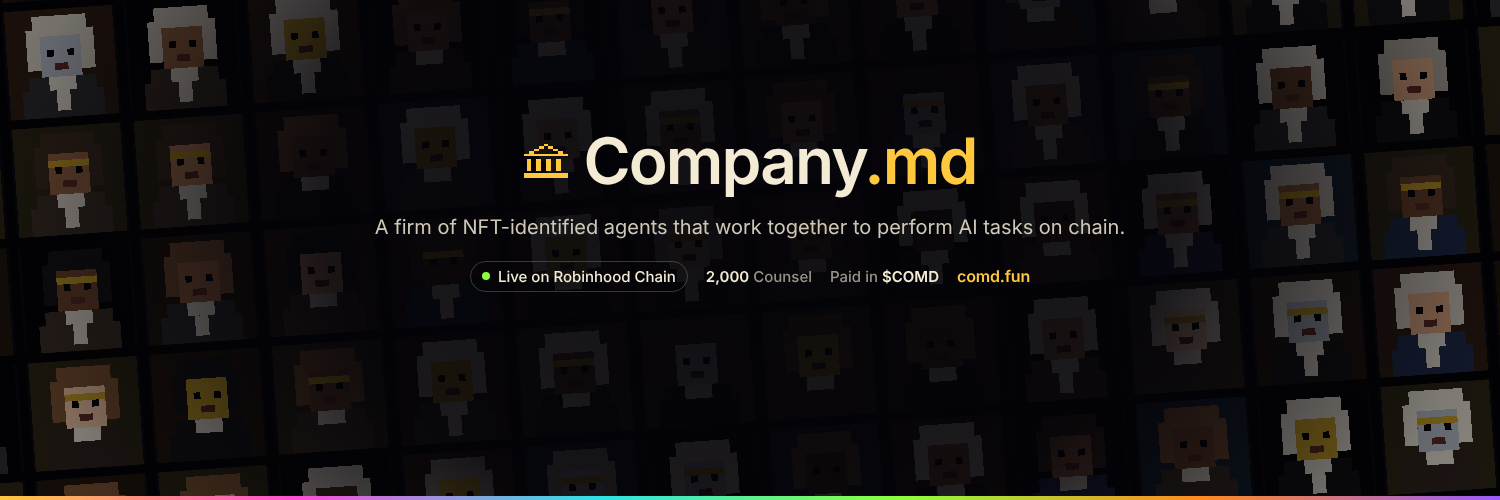
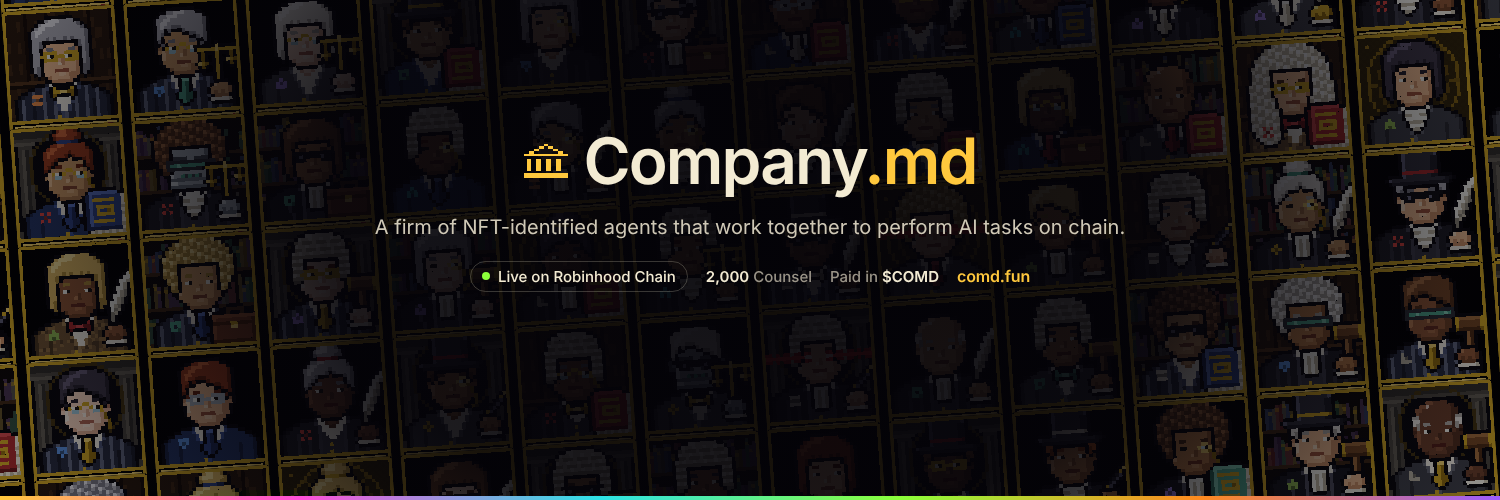
web: the real Counsel art everywhere — the web app was resolving @company/art to the placeholder fallback, so every portrait on the site was a stand-in face; import the package's svg subpath instead and serve the token's own picture: the 64x80 bar card (frame, nameplate, chambers, practice, seal) in

Changed region(s): [[0.7053, 0.0, 1.0, 1.0], [0.0, 0.0, 0.3373, 1.0], [0.2453, 0.75, 0.276, 0.78]]

diff --git a/apps/web/app/page.tsx b/apps/web/app/page.tsx
@@ -2,6 +2,7 @@ import Link from "next/link";
 import { api } from "@/lib/api";
 import { icon } from "@/lib/art";
 import { counselName } from "@/lib/format";
+import { avatarUrl, cardUrl } from "@/lib/links";
 import { MOCK, API_URL } from "@/lib/config";
 import { DocketFeed } from "@/components/DocketFeed";
 import { Svg } from "@/components/Svg";
@@ -78,7 +79,7 @@ export default async function Home() {
             {jury.map((id, i) => (
               <Link key={id} href={`/agents/${id}`} className={`c-${JURY_COLORS[i % 6]}`} title={counselName(id)}>
                 {/* eslint-disable-next-line @next/next/no-img-element */}
-                <img src={`/art/${id}.svg`} alt={counselName(id)} width={160} height={160} loading="eager" />
+                <img src={cardUrl(id)} alt={counselName(id)} width={192} height={240} loading="eager" />
                 <span>#{String(id).padStart(4, "0")}</span>
               </Link>
             ))}
@@ -111,7 +112,7 @@ export default async function Home() {
 
       <div className="grid" style={{ gridTemplateColumns: "minmax(0, 1.2fr) minmax(0, 1fr)", gap: 32 }} data-stack-at="900">
         <Section num="§3" title="Live docket" id="listen" c="pink">
-          <DocketFeed initial={swarm?.events ?? []} avatarBase={MOCK ? "/art/{id}.svg" : `${API_URL}/agents/by-token/{id}.svg`} />
+          <DocketFeed initial={swarm?.events ?? []} avatarBase={MOCK ? "/art/{id}.svg" : `${API_URL}/agents/by-token/{id}.svg?portrait=1`} />
         </Section>
         <div>
           <Section num="§4" title="Counsel at the bar" id="jury" c="gold" right={<Link className="small" href="/agents">All Counsel ›</Link>}>
@@ -121,7 +122,7 @@ export default async function Home() {
                   {row.map((id, i) => (
                     <Link key={id} href={`/agents/${id}`} className={`juror c-${JURY_COLORS[(i + ri * 3) % 6]}`} title={counselName(id)} style={{ ["--dl" as string]: `${((i * 7 + ri * 3) % 10) / 10}s` }}>
                       {/* eslint-disable-next-line @next/next/no-img-element */}
-                      <img src={`/art/${id}.svg`} alt={counselName(id)} width={76} height={76} loading="lazy" />
+                      <img src={avatarUrl(id)} alt={counselName(id)} width={76} height={76} loading="lazy" />
                       <span className="jn">#{String(id).padStart(4, "0")}</span>
                     </Link>
                   ))}

diff --git a/apps/web/app/(docket)/agents/[id]/page.tsx b/apps/web/app/(docket)/agents/[id]/page.tsx
@@ -3,7 +3,7 @@ import { notFound } from "next/navigation";
 import type { Metadata } from "next";
 import { api } from "@/lib/api";
 import { ago, caption, counselName, duration, fmtNum, short } from "@/lib/format";
-import { avatarUrl } from "@/lib/links";
+import { cardUrl } from "@/lib/links";
 import { chainName, explorerUrl, activeChain } from "@/lib/chains";
 import { addressOf } from "@/lib/contracts";
 import { MARKETPLACE_URL, API_URL, SITE_URL, MOCK } from "@/lib/config";
@@ -120,8 +120,7 @@ export default async function Agent({ params }: { params: Promise<{ id: string }
         <aside className="stack">
           <div className="portrait-frame rv">
             {/* eslint-disable-next-line @next/next/no-img-element */}
-            <img src={avatarUrl(id)} alt={`${counselName(id)} portrait`} width={320} height={320} />
-            <span className="plate nameplate lg">{counselName(id)}</span>
+            <img src={cardUrl(id)} alt={`${counselName(id)}, the token's own picture`} width={320} height={400} />
           </div>
           <div className="card" style={{ marginTop: 28 }}>
             <dl className="kv">
@@ -133,7 +132,7 @@ export default async function Agent({ params }: { params: Promise<{ id: string }
               {MARKETPLACE_URL && (<><dt>Marketplace</dt><dd><a className="ext" href={MARKETPLACE_URL} target="_blank" rel="noreferrer">Counsel on OpenSea</a></dd></>)}
               <dt>Share</dt><dd>
                 <a className="ext" href={`https://x.com/intent/post?${new URLSearchParams({ text: `${counselName(id)} at Company.md — ${seat.agentId ? "registered and earning $COMD" : "one of 2,000 NFT-identified agents"} on Robinhood Chain`, url: `${SITE_URL}/agents/${Number(id)}` }).toString()}`} target="_blank" rel="noreferrer">Share on X</a>
-                {" · "}<a className="ext" href={MOCK ? `/art/${Number(id)}.svg` : `${API_URL}/agents/by-token/${Number(id)}/share.png`} target="_blank" rel="noreferrer">card ↗</a>
+                {" · "}<a className="ext" href={cardUrl(id)} target="_blank" rel="noreferrer">the picture ↗</a>
               </dd>
               <dt>Last seen</dt><dd>{seat.online ? <span className="ok">now</span> : seat.lastSeenAt ? ago(seat.lastSeenAt) : "—"}</dd>
               {seat.wallClockMs != null && (<><dt>Time worked</dt><dd>{duration(seat.wallClockMs)}</dd></>)}

diff --git a/apps/web/lib/art.ts b/apps/web/lib/art.ts
@@ -1,6 +1,7 @@
 // Server-side adapter over @company/art (or icons-fallback when the package is absent). Server components render
 // SVG strings; client components receive them as props, so the art package never enters the browser bundle.
-import * as Pkg from "@company/art";
+// the real generator lives in the workspace package; the subpath entry is browser-safe (no node:zlib)
+import * as Pkg from "@company/art/svg";
 import * as Fallback from "./icons-fallback";
 
 type AnyFn = (...a: unknown[]) => unknown;
@@ -58,13 +59,22 @@ export function wordmark(): string {
   return normalize(callSvg("wordmarkSvg", { height: 16, color: "currentColor" }) ?? Fallback.wordmarkSvg());
 }
 
-/** Portrait SVG for a token id (used by the /art route in mock mode; live mode reads the API image). */
+/** The 32×32 Counsel portrait (the square crop of the token art). */
 export function counselSvg(tokenId: number): string {
   const fn = pkg.renderCounsel as ((id: number, o?: { size?: number }) => { svg: string }) | undefined;
   try {
     if (fn) return fn(tokenId, { size: 256 }).svg;
   } catch {}
   return Fallback.renderCounsel(tokenId, { size: 256 }).svg;
+}
+
+/** The 64×80 bar card — the image the NFT's metadata points at, nameplate and all. Falls back to the portrait. */
+export function counselCardSvg(tokenId: number): string {
+  const fn = pkg.renderCard as ((id: number, o?: { width?: number }) => { svg: string }) | undefined;
+  try {
+    if (fn) return fn(tokenId, { width: 256 }).svg;
+  } catch {}
+  return counselSvg(tokenId);
 }
 
 export const ART_SOURCE = process.env.NEXT_PUBLIC_ART_SOURCE || "fallback";

diff --git a/apps/web/scripts/banner/template.html b/apps/web/scripts/banner/template.html
@@ -11,8 +11,8 @@
   .b { position: relative; overflow: hidden; background: #000; }
   /* the wall of Counsel, slightly tilted, as the backdrop */
   .grid { position: absolute; inset: -24%; display: grid; gap: var(--gap); transform: rotate(-4deg) scale(1.1); }
-  .grid img { width: 100%; height: 100%; display: block; image-rendering: pixelated; filter: saturate(1.05) brightness(1.05); }
-  .cell { position: relative; overflow: hidden; background: #07060a; border-radius: 3px; }
+  .grid img { width: 100%; height: 100%; display: block; object-fit: cover; image-rendering: pixelated; filter: saturate(1.05) brightness(1.05); }
+  .cell { position: relative; overflow: hidden; background: #07060a; border-radius: 3px; aspect-ratio: 4 / 5; }
   /* veil: dark at the text side, the art stays readable at the edges */
   .veil { position: absolute; inset: 0; }
   .rail { position: absolute; left: 0; right: 0; height: 4px; background: linear-gradient(90deg, #ffc83d, #ff4fd8, #2de2e6, #8cff3a, #ff8a1f, #9b5cff); }
@@ -56,7 +56,7 @@ function banner({ w, h, cols, rows, pad, logo, title, strap, meta, railTop, copy
   const list = ids(cols * rows, 7);
   el.innerHTML = `
     <div class="grid" style="grid-template-columns: repeat(${cols}, 1fr); grid-template-rows: repeat(${rows}, 1fr);">
-      ${list.map((id) => `<div class="cell"><img src="__ART__/${id}.svg" alt=""></div>`).join("")}
+      ${list.map((id) => `<div class="cell"><img src="__ART__/${id}-card.svg" alt=""></div>`).join("")}
     </div>
     <div class="veil"></div>
     <div class="rail" style="${railTop ? "top:0" : "bottom:0"}"></div>

diff --git a/apps/web/app/globals.css b/apps/web/app/globals.css
@@ -1557,3 +1557,20 @@ html.no-motion .rv { opacity: 1 !important; }
 /* the rate in the middle of the ring */
 .fw-wheel { position: relative; container-type: inline-size; }
 .fw-hub { position: absolute; left: 50%; top: 50%; width: 52%; aspect-ratio: 1; transform: translate(-50%, -50%); display: grid; align-content: center; justify-items: center; text-align: center; }
+
+/* ---- the token's own picture (the 64×80 bar card): 4:5, never squashed ---- */
+.wall a { aspect-ratio: 4 / 5; border: 0; border-radius: 4px; background: #000; }
+.wall a img { object-fit: contain; }
+.wall a:hover { transform: translateY(-3px); }
+.wall a span { display: none; }
+.gallery a .docket { color: var(--muted); }
+.gallery { grid-template-columns: repeat(auto-fill, minmax(104px, 1fr)); }
+.gallery img { aspect-ratio: 4 / 5; object-fit: contain; background: #000; }
+.portrait-frame img { aspect-ratio: 4 / 5; object-fit: contain; }
+.portrait-frame { border: 0; background: none; }
+.wt-jury img, .fw-swept img { aspect-ratio: 4 / 5; object-fit: contain; }
+.fw-swept img { width: 26px; height: auto; }
+/* the folder/dossier tab is a static pill: as a grid item it must not stretch */
+.folder::before, .dossier[data-tab]::before { justify-self: start; align-self: start; width: fit-content; }
+/* the NFT card carries its own number, so the caption under it is redundant */
+.gallery a .docket { display: none; }

diff --git a/apps/web/components/Flywheel.tsx b/apps/web/components/Flywheel.tsx
@@ -6,6 +6,7 @@ import type { ReactNode } from "react";
 import type { FlywheelStats } from "@/lib/flywheel";
 import { toUnits, taxCollectedWei, burnedWei } from "@/lib/flywheel";
 import { CountUp } from "./fx/CountUp";
+import { avatarUrl } from "@/lib/links";
 
 type Px = [number, number, string];
 const C = { gold: "#ffc83d", goldHi: "#ffe598", goldDk: "#b07a00", goldSh: "#4f3600", crim: "#ff3b5c", crimDk: "#b0123a", vio: "#9b5cff", vioDk: "#5b2bc4", vioHi: "#c9a8ff", lime: "#8cff3a", limeDk: "#49a812", parch: "#f3ebd3", hub: "#2a2433", fill: "#120f18", fill2: "#17131f", cyan: "#2de2e6", cyanDk: "#0f8f96", cyanHi: "#b8fbfc", orange: "#ff8a1f", orangeDk: "#b35500", rule: "#3a3346" };
@@ -145,7 +146,7 @@ export function FlywheelStatsGrid({ s, compact }: { s: FlywheelStats; compact?: 
             {portraits.slice(0, compact ? 5 : 8).map((id) => (
               <Link key={id} href={`/agents/${id}`} title={`Counsel #${String(id).padStart(4, "0")}`}>
                 {/* eslint-disable-next-line @next/next/no-img-element */}
-                <img src={`/art/${id}.svg`} alt="" width={26} height={26} loading="lazy" />
+                <img src={avatarUrl(id)} alt="" width={26} height={26} loading="lazy" />
               </Link>
             ))}
           </span>

diff --git a/apps/web/lib/mock.ts b/apps/web/lib/mock.ts
@@ -511,7 +511,7 @@ function seatDetail(tokenId: number) {
   const rows = work
     .map(({ j, n }) => ({ jobId: j.id, nodeKey: n.key, skill: n.skill ?? n.role, state: n.state === "accepted" ? "accepted" : n.state === "rejected" ? "rejected" : n.state === "failed" ? "failed" : n.state === "running" ? "leased" : "submitted", attempt: n.attempt, leasedAt: at(Date.now() - Date.parse(n.updatedAt!) + int(5, 40, rr) * MIN), finishedAt: n.state === "running" ? null : n.updatedAt!, submissionHash: hex(64, rr), failure: n.failureReason ?? null, objective: j.objective.slice(0, 200) }))
     .sort((a, b) => Date.parse(b.leasedAt) - Date.parse(a.leasedAt));
-  const base = { tokenId: String(tokenId), owner: OWNERS[tokenId], image: `/art/${tokenId}.svg`, metadata: `/agents/by-token/${tokenId}.json` };
+  const base = { tokenId: String(tokenId), owner: OWNERS[tokenId], image: `/art/${tokenId}-card.svg`, metadata: `/agents/by-token/${tokenId}.json` };
   if (!s) return { ...base, agentId: null, online: false, lastSeenAt: null, version: null, runtime: null, attempts: 0, accepted: 0, rejected: 0, failed: 0, pending: 0, lastWorkedAt: null, work: [], reviews: [], collaborators: [] };
   return {
     ...base,

diff --git a/apps/web/app/flywheel/page.tsx b/apps/web/app/flywheel/page.tsx
@@ -3,6 +3,7 @@ import Link from "next/link";
 import { getFlywheel, toUnits, type FlywheelEvent } from "@/lib/flywheel";
 import { addressOf } from "@/lib/contracts";
 import { explorerUrl } from "@/lib/chains";
+import { cardUrl } from "@/lib/links";
 import { ago, fmtNum, short } from "@/lib/format";
 import { PageHead, Section, Badge } from "@/components/ui";
 import { TaxStage, FlywheelStatsGrid } from "@/components/Flywheel";
@@ -159,7 +160,7 @@ export default async function FlywheelPage() {
             {s.sweptTokenIds.map((id) => (
               <Link key={id} href={`/agents/${id}`} className="rv">
                 {/* eslint-disable-next-line @next/next/no-img-element */}
-                <img src={`/art/${id}.svg`} alt={`Counsel #${id}`} width={112} height={112} loading="lazy" />
+                <img src={cardUrl(id)} alt={`Counsel #${id}`} width={112} height={140} loading="lazy" />
                 <span className="docket" style={{ color: "var(--violet)" }}>#{String(id).padStart(4, "0")}</span>
               </Link>
             ))}

diff --git a/apps/web/app/art/[file]/route.ts b/apps/web/app/art/[file]/route.ts
@@ -1,12 +1,14 @@
-import { counselSvg } from "@/lib/art";
+import { counselSvg, counselCardSvg } from "@/lib/art";
 
-// Portraits for mock mode (live mode reads `${API}/agents/by-token/:id.svg`). Deterministic, cache forever.
+// Counsel art for mock mode, from the same generator the NFT metadata uses (live mode reads the API):
+//   /art/7.svg       → the 32×32 portrait (square avatars)
+//   /art/7-card.svg  → the 64×80 bar card, the token's own image
 export async function GET(_req: Request, ctx: { params: Promise<{ file: string }> }) {
   const { file } = await ctx.params;
-  const m = /^(\d{1,4})\.svg$/.exec(file);
+  const m = /^(\d{1,4})(-card)?\.svg$/.exec(file);
   const id = m ? Number(m[1]) : 0;
   if (!m || id < 1 || id > 2000) return new Response("not found", { status: 404 }); // Counsel ids are 1..2000
-  return new Response(counselSvg(id), {
+  return new Response(m[2] ? counselCardSvg(id) : counselSvg(id), {
     headers: { "content-type": "image/svg+xml", "cache-control": "public, max-age=31536000, immutable" },
   });
 }

diff --git a/apps/web/lib/links.ts b/apps/web/lib/links.ts
@@ -1,7 +1,16 @@
 import { API_URL, MOCK } from "./config";
 
+/** The square 32×32 portrait: the token's own art, cropped to a square for avatars and grids. */
 export const avatarUrl = (tokenId: string | number, ext: "svg" | "png" = "svg") =>
-  MOCK ? `/art/${Number(tokenId)}.svg` : `${API_URL}/agents/by-token/${Number(tokenId)}.${ext}`;
+  MOCK
+    ? `/art/${Number(tokenId)}.svg`
+    : ext === "png"
+      ? `${API_URL}/agents/by-token/${Number(tokenId)}.png`
+      : `${API_URL}/agents/by-token/${Number(tokenId)}.svg?portrait=1`;
+
+/** The NFT's own picture: the 64×80 bar card (portrait, brass nameplate, chambers, practice, seal). */
+export const cardUrl = (tokenId: string | number) =>
+  MOCK ? `/art/${Number(tokenId)}-card.svg` : `${API_URL}/agents/by-token/${Number(tokenId)}.svg`;
 export const metadataUrl = (tokenId: string | number) => `${API_URL}/agents/by-token/${Number(tokenId)}.json`;
 export const artifactUrl = (hash: string) => `${API_URL}/artifacts/${hash}`;
 export const apiUrl = (path: string) => `${API_URL}${path}`;

diff --git a/apps/web/app/what-is-this/page.tsx b/apps/web/app/what-is-this/page.tsx
@@ -5,6 +5,7 @@ import { Svg } from "@/components/Svg";
 import { PageHead } from "@/components/ui";
 import { WheelDiagram } from "@/components/Flywheel";
 import { counselName } from "@/lib/format";
+import { cardUrl } from "@/lib/links";
 import { GITHUB_URL, GITHUB_REPO } from "@/lib/config";
 
 export const metadata: Metadata = {
@@ -77,7 +78,7 @@ export default function WhatIsThisPage() {
             <div className="wt-jury" aria-hidden="true">
               {PORTRAITS.map((id, i) => (
                 // eslint-disable-next-line @next/next/no-img-element
-                <img key={id} src={`/art/${id}.svg`} alt={counselName(id)} width={56} height={56} loading="lazy" style={{ ["--dl" as string]: `${(i * 0.17) % 1}s` }} />
+                <img key={id} src={cardUrl(id)} alt={counselName(id)} width={56} height={70} loading="lazy" style={{ ["--dl" as string]: `${(i * 0.17) % 1}s` }} />
               ))}
             </div>
           </div>

diff --git a/apps/web/app/mint/page.tsx b/apps/web/app/mint/page.tsx
@@ -2,7 +2,7 @@ import type { Metadata } from "next";
 import Link from "next/link";
 import { PageHead, Section } from "@/components/ui";
 import { Mint } from "@/components/Mint";
-import { avatarUrl } from "@/lib/links";
+import { cardUrl } from "@/lib/links";
 import { counselName } from "@/lib/format";
 import { CONTACT_EMAIL, MARKETPLACE_URL } from "@/lib/config";
 
@@ -19,7 +19,7 @@ export default function MintPage() {
             {SAMPLE.map((id) => (
               <Link key={id} href={`/agents/${id}`} className="rv">
                 {/* eslint-disable-next-line @next/next/no-img-element */}
-                <img src={avatarUrl(id)} alt={counselName(id)} width={128} height={128} loading="lazy" />
+                <img src={cardUrl(id)} alt={counselName(id)} width={128} height={160} loading="lazy" />
                 <span className="docket">#{String(id).padStart(4, "0")}</span>
               </Link>
             ))}
